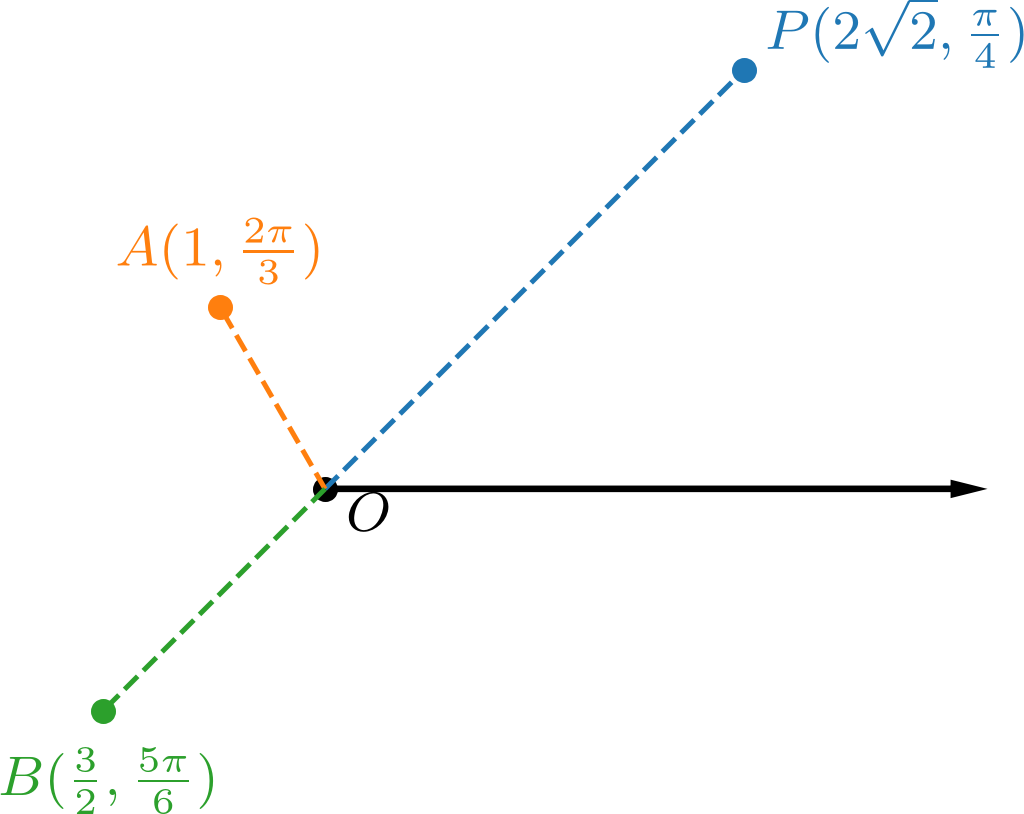
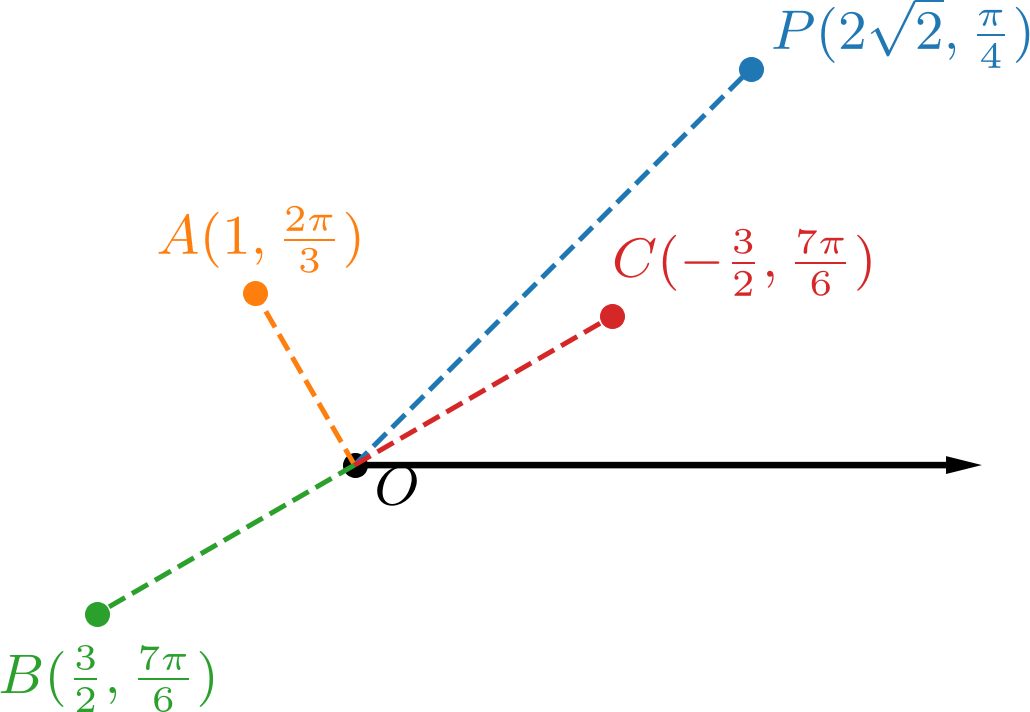
Atualização das notas de GA

diff --git a/docs/geometria_analitica/cap_osc_sec_coordenadas_polares.html b/docs/geometria_analitica/cap_osc_sec_coordenadas_polares.html
@@ -2,8 +2,8 @@
 <head>
 <meta http-equiv="content-type" content="text/html; charset=UTF-8">
 <title>NPK - 3.1 Sistema de coordenadas polares ‣ Capítulo 3 Outros sistemas de coordenadas ‣ Geometria analítica</title>
-<!--Generated on Mon Sep 21 15:35:50 2026 by LaTeXML (version 0.8.8) http://dlmf.nist.gov/LaTeXML/.-->
-<!--Document created on 21 de setembro de 2026.-->
+<!--Generated on Tue Sep 22 09:31:12 2026 by LaTeXML (version 0.8.8) http://dlmf.nist.gov/LaTeXML/.-->
+<!--Document created on 22 de setembro de 2026.-->
 
 <link rel="stylesheet" href="LaTeXML.css" type="text/css">
 <link rel="stylesheet" href="ltx-book.css" type="text/css">
@@ -139,40 +139,41 @@
 <div id="p2" class="ltx_para">
 <p class="ltx_p">Neste sistema, um ponto <math id="p2.m1" class="ltx_Math" alttext="P" display="inline"><mi>P</mi></math> de coordenadas polares <math id="p2.m2" class="ltx_Math" alttext="P=(r,\theta)" display="inline"><mrow><mi>P</mi><mo>=</mo><mrow><mo stretchy="false">(</mo><mi>r</mi><mo>,</mo><mi>θ</mi><mo stretchy="false">)</mo></mrow></mrow></math> é tal que <math id="p2.m3" class="ltx_Math" alttext="|OP|=r" display="inline"><mrow><mrow><mo stretchy="false">|</mo><mrow><mi>O</mi><mo></mo><mi>P</mi></mrow><mo stretchy="false">|</mo></mrow><mo>=</mo><mi>r</mi></mrow></math> (<span class="ltx_text ltx_font_italic">i.e.</span> a distância do polo ao ponto é <math id="p2.m4" class="ltx_Math" alttext="r" display="inline"><mi>r</mi></math>) e <math id="p2.m5" class="ltx_Math" alttext="\theta" display="inline"><mi>θ</mi></math> é o ângulo de <math id="p2.m6" class="ltx_Math" alttext="Ox" display="inline"><mrow><mi>O</mi><mo></mo><mi>x</mi></mrow></math> com <math id="p2.m7" class="ltx_Math" alttext="OP" display="inline"><mrow><mi>O</mi><mo></mo><mi>P</mi></mrow></math>, medido positivamente no sentido anti-horário.</p>
 </div>
+<div id="Thmobs1" class="ltx_theorem ltx_theorem_obs">
+<h6 class="ltx_title ltx_runin ltx_font_bold ltx_title_theorem">Observação 3.1.1.
+<br class="ltx_break">
+</h6>
+<div id="Thmobs1.p1" class="ltx_para">
+<p class="ltx_p">Por convenção, as coordenadas polares <math id="Thmobs1.p1.m1" class="ltx_Math" alttext="(r,\pi+\theta)=(-r,\theta)" display="inline"><mrow><mrow><mo stretchy="false">(</mo><mi>r</mi><mo>,</mo><mrow><mi>π</mi><mo>+</mo><mi>θ</mi></mrow><mo stretchy="false">)</mo></mrow><mo>=</mo><mrow><mo stretchy="false">(</mo><mrow><mo>−</mo><mi>r</mi></mrow><mo>,</mo><mi>θ</mi><mo stretchy="false">)</mo></mrow></mrow></math>, <math id="Thmobs1.p1.m2" class="ltx_Math" alttext="r&gt;0" display="inline"><mrow><mi>r</mi><mo>&gt;</mo><mn>0</mn></mrow></math>.</p>
+</div>
+</div>
 <div id="Thmex1" class="ltx_theorem ltx_theorem_ex">
 <h6 class="ltx_title ltx_runin ltx_font_bold ltx_title_theorem">Exemplo 3.1.1.
 <br class="ltx_break">
 </h6>
 <div id="Thmex1.p1" class="ltx_para">
 <p class="ltx_p">Na Figura <a href="#fig:ex_osc_scp" title="Figura 3.2 ‣ Exemplo 3.1.1. ‣ 3.1 Sistema de coordenadas polares ‣ Capítulo 3 Outros sistemas de coordenadas ‣ Geometria analítica" class="ltx_ref"><span class="ltx_text ltx_ref_tag">3.2</span></a>, temos a representação dos pontos <math id="Thmex1.p1.m1" class="ltx_Math" alttext="{\color[rgb]{0.05859375,0.46484375,0.71875}\definecolor[named]{pgfstrokecolor}%
-{rgb}{0.05859375,0.46484375,0.71875}P=(2\sqrt{2},\frac{\pi}{4})}" display="inline"><mrow><mi mathcolor="#0F77B7">P</mi><mo mathcolor="#0F77B7">=</mo><mrow><mo mathcolor="#0F77B7" stretchy="false">(</mo><mrow><mn mathcolor="#0F77B7">2</mn><mo></mo><msqrt mathcolor="#0F77B7"><mn mathcolor="#0F77B7">2</mn></msqrt></mrow><mo mathcolor="#0F77B7">,</mo><mfrac mathcolor="#0F77B7"><mi mathcolor="#0F77B7">π</mi><mn mathcolor="#0F77B7">4</mn></mfrac><mo mathcolor="#0F77B7" stretchy="false">)</mo></mrow></mrow></math>, <math id="Thmex1.p1.m2" class="ltx_Math" alttext="{\color[rgb]{1,0.4921875,0}\definecolor[named]{pgfstrokecolor}{rgb}{%
-1,0.4921875,0}A=(2,\frac{2\pi}{3})}" display="inline"><mrow><mi mathcolor="#FF7E00">A</mi><mo mathcolor="#FF7E00">=</mo><mrow><mo mathcolor="#FF7E00" stretchy="false">(</mo><mn mathcolor="#FF7E00">2</mn><mo mathcolor="#FF7E00">,</mo><mfrac mathcolor="#FF7E00"><mrow><mn mathcolor="#FF7E00">2</mn><mo></mo><mi mathcolor="#FF7E00">π</mi></mrow><mn mathcolor="#FF7E00">3</mn></mfrac><mo mathcolor="#FF7E00" stretchy="false">)</mo></mrow></mrow></math> e <math id="Thmex1.p1.m3" class="ltx_Math" alttext="{\color[rgb]{0,0.640625,0.10546875}\definecolor[named]{pgfstrokecolor}{rgb}{%
-0,0.640625,0.10546875}B=(\sqrt{2},\frac{5\pi}{4})}" display="inline"><mrow><mi mathcolor="#00A31B">B</mi><mo mathcolor="#00A31B">=</mo><mrow><mo mathcolor="#00A31B" stretchy="false">(</mo><msqrt mathcolor="#00A31B"><mn mathcolor="#00A31B">2</mn></msqrt><mo mathcolor="#00A31B">,</mo><mfrac mathcolor="#00A31B"><mrow><mn mathcolor="#00A31B">5</mn><mo></mo><mi mathcolor="#00A31B">π</mi></mrow><mn mathcolor="#00A31B">4</mn></mfrac><mo mathcolor="#00A31B" stretchy="false">)</mo></mrow></mrow></math> no sistema de coordenadas polares.</p>
+{rgb}{0.05859375,0.46484375,0.71875}P(2\sqrt{2},\frac{\pi}{4})}" display="inline"><mrow><mi mathcolor="#0F77B7">P</mi><mo></mo><mrow><mo mathcolor="#0F77B7" stretchy="false">(</mo><mrow><mn mathcolor="#0F77B7">2</mn><mo></mo><msqrt mathcolor="#0F77B7"><mn mathcolor="#0F77B7">2</mn></msqrt></mrow><mo mathcolor="#0F77B7">,</mo><mfrac mathcolor="#0F77B7"><mi mathcolor="#0F77B7">π</mi><mn mathcolor="#0F77B7">4</mn></mfrac><mo mathcolor="#0F77B7" stretchy="false">)</mo></mrow></mrow></math>, <math id="Thmex1.p1.m2" class="ltx_Math" alttext="{\color[rgb]{1,0.4921875,0}\definecolor[named]{pgfstrokecolor}{rgb}{%
+1,0.4921875,0}A(1,\frac{2\pi}{3})}" display="inline"><mrow><mi mathcolor="#FF7E00">A</mi><mo></mo><mrow><mo mathcolor="#FF7E00" stretchy="false">(</mo><mn mathcolor="#FF7E00">1</mn><mo mathcolor="#FF7E00">,</mo><mfrac mathcolor="#FF7E00"><mrow><mn mathcolor="#FF7E00">2</mn><mo></mo><mi mathcolor="#FF7E00">π</mi></mrow><mn mathcolor="#FF7E00">3</mn></mfrac><mo mathcolor="#FF7E00" stretchy="false">)</mo></mrow></mrow></math>, <math id="Thmex1.p1.m3" class="ltx_Math" alttext="{\color[rgb]{0,0.640625,0.10546875}\definecolor[named]{pgfstrokecolor}{rgb}{%
+0,0.640625,0.10546875}B(\frac{3}{2},\frac{7\pi}{6})}" display="inline"><mrow><mi mathcolor="#00A31B">B</mi><mo></mo><mrow><mo mathcolor="#00A31B" stretchy="false">(</mo><mfrac mathcolor="#00A31B"><mn mathcolor="#00A31B">3</mn><mn mathcolor="#00A31B">2</mn></mfrac><mo mathcolor="#00A31B">,</mo><mfrac mathcolor="#00A31B"><mrow><mn mathcolor="#00A31B">7</mn><mo></mo><mi mathcolor="#00A31B">π</mi></mrow><mn mathcolor="#00A31B">6</mn></mfrac><mo mathcolor="#00A31B" stretchy="false">)</mo></mrow></mrow></math> e <math id="Thmex1.p1.m4" class="ltx_Math" alttext="{\color[rgb]{0.89453125,0.1015625,0.109375}\definecolor[named]{pgfstrokecolor}%
+{rgb}{0.89453125,0.1015625,0.109375}C(-\frac{3}{2},\frac{7\pi}{6})}" display="inline"><mrow><mi mathcolor="#E41A1C">C</mi><mo></mo><mrow><mo mathcolor="#E41A1C" stretchy="false">(</mo><mrow><mo mathcolor="#E41A1C">−</mo><mfrac mathcolor="#E41A1C"><mn mathcolor="#E41A1C">3</mn><mn mathcolor="#E41A1C">2</mn></mfrac></mrow><mo mathcolor="#E41A1C">,</mo><mfrac mathcolor="#E41A1C"><mrow><mn mathcolor="#E41A1C">7</mn><mo></mo><mi mathcolor="#E41A1C">π</mi></mrow><mn mathcolor="#E41A1C">6</mn></mfrac><mo mathcolor="#E41A1C" stretchy="false">)</mo></mrow></mrow></math> no sistema de coordenadas polares.</p>
 </div>
-<figure id="fig:ex_osc_scp" class="ltx_figure"><img src="cap_osc/dados/fig_ex_osc_scp/fig.png" id="Ch3.F2.g1" class="ltx_graphics ltx_centering ltx_img_landscape" width="227" height="181" alt="Refer to caption">
+<figure id="fig:ex_osc_scp" class="ltx_figure"><img src="cap_osc/dados/fig_ex_osc_scp/fig.png" id="Ch3.F2.g1" class="ltx_graphics ltx_centering ltx_img_landscape" width="227" height="157" alt="Refer to caption">
 <figcaption class="ltx_caption ltx_centering"><span class="ltx_tag ltx_tag_figure"><span class="ltx_text" style="font-size:90%;">Figura 3.2</span>: </span><span class="ltx_text" style="font-size:90%;">Exemplo de pontos no sistema de coordenadas polares.</span></figcaption>
 </figure>
-</div>
-<div id="Thmobs1" class="ltx_theorem ltx_theorem_obs">
-<h6 class="ltx_title ltx_runin ltx_font_bold ltx_title_theorem">Observação 3.1.1.
-<br class="ltx_break">
-</h6>
-<div id="Thmobs1.p1" class="ltx_para">
-<p class="ltx_p">Por convenção, as coordenadas polares <math id="Thmobs1.p1.m1" class="ltx_Math" alttext="(r,\pi+\theta)=(-r,\theta)" display="inline"><mrow><mrow><mo stretchy="false">(</mo><mi>r</mi><mo>,</mo><mrow><mi>π</mi><mo>+</mo><mi>θ</mi></mrow><mo stretchy="false">)</mo></mrow><mo>=</mo><mrow><mo stretchy="false">(</mo><mrow><mo>−</mo><mi>r</mi></mrow><mo>,</mo><mi>θ</mi><mo stretchy="false">)</mo></mrow></mrow></math>, <math id="Thmobs1.p1.m2" class="ltx_Math" alttext="r&gt;0" display="inline"><mrow><mi>r</mi><mo>&gt;</mo><mn>0</mn></mrow></math>. Por exemplo, <math id="Thmobs1.p1.m3" class="ltx_Math" alttext="B=(\sqrt{2},\frac{5\pi}{4})=(-\sqrt{2},\frac{\pi}{4})" display="inline"><mrow><mi>B</mi><mo>=</mo><mrow><mo stretchy="false">(</mo><msqrt><mn>2</mn></msqrt><mo>,</mo><mfrac><mrow><mn>5</mn><mo></mo><mi>π</mi></mrow><mn>4</mn></mfrac><mo stretchy="false">)</mo></mrow><mo>=</mo><mrow><mo stretchy="false">(</mo><mrow><mo>−</mo><msqrt><mn>2</mn></msqrt></mrow><mo>,</mo><mfrac><mi>π</mi><mn>4</mn></mfrac><mo stretchy="false">)</mo></mrow></mrow></math>. Consultemos a Figura <a href="#fig:ex_osc_scp" title="Figura 3.2 ‣ Exemplo 3.1.1. ‣ 3.1 Sistema de coordenadas polares ‣ Capítulo 3 Outros sistemas de coordenadas ‣ Geometria analítica" class="ltx_ref"><span class="ltx_text ltx_ref_tag">3.2</span></a>.</p>
-</div>
 </div>
 <section id="SS1" class="ltx_subsection">
 <h2 class="ltx_title ltx_title_subsection">
 <span class="ltx_tag ltx_tag_subsection">3.1.1 </span>Coordenadas cartesianas x polares</h2>
 
 <div id="SS1.p1" class="ltx_para">
-<p class="ltx_p">Aqui, vamos estudar como podemos converter as coordenadas de um ponto <math id="SS1.p1.m1" class="ltx_Math" alttext="P(x_{p},y_{P})" display="inline"><mrow><mi>P</mi><mo></mo><mrow><mo stretchy="false">(</mo><msub><mi>x</mi><mi>p</mi></msub><mo>,</mo><msub><mi>y</mi><mi>P</mi></msub><mo stretchy="false">)</mo></mrow></mrow></math> de coordenadas cartesianas para coordenadas polares <math id="SS1.p1.m2" class="ltx_Math" alttext="P(r,\theta)" display="inline"><mrow><mi>P</mi><mo></mo><mrow><mo stretchy="false">(</mo><mi>r</mi><mo>,</mo><mi>θ</mi><mo stretchy="false">)</mo></mrow></mrow></math> e vice-versa.</p>
+<p class="ltx_p">Aqui, vamos estudar como podemos converter as coordenadas de um ponto <math id="SS1.p1.m1" class="ltx_Math" alttext="P(x_{P},y_{P})" display="inline"><mrow><mi>P</mi><mo></mo><mrow><mo stretchy="false">(</mo><msub><mi>x</mi><mi>P</mi></msub><mo>,</mo><msub><mi>y</mi><mi>P</mi></msub><mo stretchy="false">)</mo></mrow></mrow></math> de coordenadas cartesianas para coordenadas polares <math id="SS1.p1.m2" class="ltx_Math" alttext="P(r,\theta)" display="inline"><mrow><mi>P</mi><mo></mo><mrow><mo stretchy="false">(</mo><mi>r</mi><mo>,</mo><mi>θ</mi><mo stretchy="false">)</mo></mrow></mrow></math> e vice-versa.</p>
 </div>
 <section id="SS1.SSSx1" class="ltx_subsubsection">
 <h3 class="ltx_title ltx_title_subsubsection">Cartesianas para polares</h3>
 
 <div id="SS1.SSSx1.p1" class="ltx_para">
-<p class="ltx_p">Seja um ponto <math id="SS1.SSSx1.p1.m1" class="ltx_Math" alttext="P" display="inline"><mi>P</mi></math> de coordenadas cartesianas <math id="SS1.SSSx1.p1.m2" class="ltx_Math" alttext="P(x_{p},y_{P})" display="inline"><mrow><mi>P</mi><mo></mo><mrow><mo stretchy="false">(</mo><msub><mi>x</mi><mi>p</mi></msub><mo>,</mo><msub><mi>y</mi><mi>P</mi></msub><mo stretchy="false">)</mo></mrow></mrow></math>. Consultemos a Figura <a href="#fig:osc_ccxcp" title="Figura 3.3 ‣ Cartesianas para polares ‣ 3.1.1 Coordenadas cartesianas x polares ‣ 3.1 Sistema de coordenadas polares ‣ Capítulo 3 Outros sistemas de coordenadas ‣ Geometria analítica" class="ltx_ref"><span class="ltx_text ltx_ref_tag">3.3</span></a>. Em coordenadas polares, temos que <math id="SS1.SSSx1.p1.m3" class="ltx_Math" alttext="r=|OP|" display="inline"><mrow><mi>r</mi><mo>=</mo><mrow><mo stretchy="false">|</mo><mrow><mi>O</mi><mo></mo><mi>P</mi></mrow><mo stretchy="false">|</mo></mrow></mrow></math> e <math id="SS1.SSSx1.p1.m4" class="ltx_Math" alttext="\theta" display="inline"><mi>θ</mi></math> é o ângulo de <math id="SS1.SSSx1.p1.m5" class="ltx_Math" alttext="Ox" display="inline"><mrow><mi>O</mi><mo></mo><mi>x</mi></mrow></math> com <math id="SS1.SSSx1.p1.m6" class="ltx_Math" alttext="OP" display="inline"><mrow><mi>O</mi><mo></mo><mi>P</mi></mrow></math>, medido positivamente no sentido anti-horário. Com isso, temos que as coordenadas polares de <math id="SS1.SSSx1.p1.m7" class="ltx_Math" alttext="P" display="inline"><mi>P</mi></math> podem ser escritas em função das coordenadas cartesianas de <math id="SS1.SSSx1.p1.m8" class="ltx_Math" alttext="P" display="inline"><mi>P</mi></math> como</p>
+<p class="ltx_p">Seja um ponto <math id="SS1.SSSx1.p1.m1" class="ltx_Math" alttext="P" display="inline"><mi>P</mi></math> de coordenadas cartesianas <math id="SS1.SSSx1.p1.m2" class="ltx_Math" alttext="P(x_{P},y_{P})" display="inline"><mrow><mi>P</mi><mo></mo><mrow><mo stretchy="false">(</mo><msub><mi>x</mi><mi>P</mi></msub><mo>,</mo><msub><mi>y</mi><mi>P</mi></msub><mo stretchy="false">)</mo></mrow></mrow></math>. Consultemos a Figura <a href="#fig:osc_ccxcp" title="Figura 3.3 ‣ Cartesianas para polares ‣ 3.1.1 Coordenadas cartesianas x polares ‣ 3.1 Sistema de coordenadas polares ‣ Capítulo 3 Outros sistemas de coordenadas ‣ Geometria analítica" class="ltx_ref"><span class="ltx_text ltx_ref_tag">3.3</span></a>. Em coordenadas polares, temos que <math id="SS1.SSSx1.p1.m3" class="ltx_Math" alttext="r=|OP|" display="inline"><mrow><mi>r</mi><mo>=</mo><mrow><mo stretchy="false">|</mo><mrow><mi>O</mi><mo></mo><mi>P</mi></mrow><mo stretchy="false">|</mo></mrow></mrow></math> e <math id="SS1.SSSx1.p1.m4" class="ltx_Math" alttext="\theta" display="inline"><mi>θ</mi></math> é o ângulo de <math id="SS1.SSSx1.p1.m5" class="ltx_Math" alttext="Ox" display="inline"><mrow><mi>O</mi><mo></mo><mi>x</mi></mrow></math> com <math id="SS1.SSSx1.p1.m6" class="ltx_Math" alttext="OP" display="inline"><mrow><mi>O</mi><mo></mo><mi>P</mi></mrow></math>, medido positivamente no sentido anti-horário. Com isso, temos que as coordenadas polares de <math id="SS1.SSSx1.p1.m7" class="ltx_Math" alttext="P" display="inline"><mi>P</mi></math> podem ser escritas em função das coordenadas cartesianas de <math id="SS1.SSSx1.p1.m8" class="ltx_Math" alttext="P" display="inline"><mi>P</mi></math> como</p>
 <table id="Ch4.S4.EGx70" class="ltx_equationgroup ltx_eqn_align ltx_eqn_table">
 
 <tbody id="Ch3.E1"><tr class="ltx_equation ltx_eqn_row ltx_align_baseline">
@@ -838,7 +839,8 @@
 <li id="I2.i3" class="ltx_item" style="list-style-type:none;">
 <span class="ltx_tag ltx_tag_item">c)</span> 
 <div id="I2.i3.p1" class="ltx_para">
-<p class="ltx_p"><math id="I2.i3.p1.m1" class="ltx_Math" alttext="r=\cos(2\theta)" display="inline"><mrow><mi>r</mi><mo>=</mo><mrow><mi>cos</mi><mo></mo><mrow><mo stretchy="false">(</mo><mrow><mn>2</mn><mo></mo><mi>θ</mi></mrow><mo stretchy="false">)</mo></mrow></mrow></mrow></math></p>
+<p class="ltx_p"><math id="I2.i3.p1.m1" class="ltx_Math" alttext="r=\cos(2\theta)" display="inline"><mrow><mi>r</mi><mo>=</mo><mrow><mi>cos</mi><mo></mo><mrow><mo stretchy="false">(</mo><mrow><mn>2</mn><mo></mo><mi>θ</mi></mrow><mo stretchy="false">)</mo></mrow></mrow></mrow></math>
+</p>
 </div>
 </li>
 <li id="I2.i4" class="ltx_item" style="list-style-type:none;">
@@ -1107,7 +1109,7 @@
 <div class="ltx_align_center">
 <a href="cap_osc.html" title="In Geometria analítica" class="ltx_ref" rel="prev"><span class="ltx_text ltx_ref_title"><span class="ltx_tag ltx_tag_ref">3 </span>Outros sistemas de coordenadas</span></a><a href="bib.html" title="In Geometria analítica" class="ltx_ref" rel="bibliography"><span class="ltx_text ltx_ref_title">Referências</span></a><a href="cap_osc_sec_coordenadas_cilindricas.html" title="In Capítulo 3 Outros sistemas de coordenadas ‣ Geometria analítica" class="ltx_ref" rel="next"><span class="ltx_text ltx_ref_title"><span class="ltx_tag ltx_tag_ref">3.2 </span>Sistema de coordenadas cilíndricas</span></a>
 </div>
[2 lines of base64/hex data omitted]
 </div></footer><p><a rel="license" href="http://creativecommons.org/licenses/by-sa/4.0/"><img alt="Licença Creative Commons" style="border-width:0" src="https://i.creativecommons.org/l/by-sa/4.0/80x15.png" /></a><br />Este texto é disponibilizado nos termos da Licença <a rel="license" href="http://creativecommons.org/licenses/by-sa/4.0/deed.pt_BR">Creative Commons Atribuição-CompartilhaIgual 4.0 Internacional</a>. Ícones e elementos gráficos podem estar sujeitos a condições adicionais.</p>
 </div>
 <div class="card mb-1 bg-light" id="rodape">

diff --git a/docs/geometria_analitica/index.html b/docs/geometria_analitica/index.html
@@ -2,8 +2,8 @@
 <head>
 <meta http-equiv="content-type" content="text/html; charset=UTF-8">
 <title>NPK - Geometria analítica ‣ Geometria analítica</title>
-<!--Generated on Mon Sep 21 15:35:50 2026 by LaTeXML (version 0.8.8) http://dlmf.nist.gov/LaTeXML/.-->
-<!--Document created on 21 de setembro de 2026.-->
+<!--Generated on Tue Sep 22 09:31:12 2026 by LaTeXML (version 0.8.8) http://dlmf.nist.gov/LaTeXML/.-->
+<!--Document created on 22 de setembro de 2026.-->
 
 <link rel="stylesheet" href="LaTeXML.css" type="text/css">
 <link rel="stylesheet" href="ltx-book.css" type="text/css">
@@ -127,7 +127,7 @@
 <div id="p1" class="ltx_para">
 <p class="ltx_p ltx_align_left">Pedro H. A. Konzen</p>
 <p class="ltx_p ltx_align_left"><span class="ltx_text ltx_font_italic" style="font-size:90%;">Notas de aula
-<br class="ltx_break">21 de setembro de 2026</span></p>
+<br class="ltx_break">22 de setembro de 2026</span></p>
 </div>
 </div>
 <nav class="ltx_TOC ltx_list_toc ltx_toc_toc"><h6 class="ltx_title ltx_title_contents"><i class="fa-solid fa-bars-staggered text-primary"></i> Conteúdo</h6>
@@ -286,7 +286,7 @@
 <div class="ltx_align_center">
 <a href="prefacio.html" title="In Geometria analítica" class="ltx_ref" rel="prev"><span class="ltx_text ltx_ref_title">Prefácio</span></a><a href="bib.html" title="In Geometria analítica" class="ltx_ref" rel="bibliography"><span class="ltx_text ltx_ref_title">Referências</span></a><a href="cap_intro.html" title="In Geometria analítica" class="ltx_ref" rel="next"><span class="ltx_text ltx_ref_title"><span class="ltx_tag ltx_tag_ref">1 </span>Introdução</span></a>
 </div>
[2 lines of base64/hex data omitted]
 </div></footer><p><a rel="license" href="http://creativecommons.org/licenses/by-sa/4.0/"><img alt="Licença Creative Commons" style="border-width:0" src="https://i.creativecommons.org/l/by-sa/4.0/80x15.png" /></a><br />Este texto é disponibilizado nos termos da Licença <a rel="license" href="http://creativecommons.org/licenses/by-sa/4.0/deed.pt_BR">Creative Commons Atribuição-CompartilhaIgual 4.0 Internacional</a>. Ícones e elementos gráficos podem estar sujeitos a condições adicionais.</p>
 </div>
 <div class="card mb-1 bg-light" id="rodape">

diff --git a/docs/geometria_analitica/cap_osc_sec_coordenadas_cilindricas.html b/docs/geometria_analitica/cap_osc_sec_coordenadas_cilindricas.html
@@ -2,8 +2,8 @@
 <head>
 <meta http-equiv="content-type" content="text/html; charset=UTF-8">
 <title>NPK - 3.2 Sistema de coordenadas cilíndricas ‣ Capítulo 3 Outros sistemas de coordenadas ‣ Geometria analítica</title>
-<!--Generated on Mon Sep 21 15:35:50 2026 by LaTeXML (version 0.8.8) http://dlmf.nist.gov/LaTeXML/.-->
-<!--Document created on 21 de setembro de 2026.-->
+<!--Generated on Tue Sep 22 09:31:12 2026 by LaTeXML (version 0.8.8) http://dlmf.nist.gov/LaTeXML/.-->
+<!--Document created on 22 de setembro de 2026.-->
 
 <link rel="stylesheet" href="LaTeXML.css" type="text/css">
 <link rel="stylesheet" href="ltx-book.css" type="text/css">
@@ -180,7 +180,7 @@
 <div class="ltx_align_center">
 <a href="cap_osc_sec_coordenadas_polares.html" title="In Capítulo 3 Outros sistemas de coordenadas ‣ Geometria analítica" class="ltx_ref" rel="prev"><span class="ltx_text ltx_ref_title"><span class="ltx_tag ltx_tag_ref">3.1 </span>Sistema de coordenadas polares</span></a><a href="bib.html" title="In Geometria analítica" class="ltx_ref" rel="bibliography"><span class="ltx_text ltx_ref_title">Referências</span></a><a href="cap_osc_sec_coordenadas_esfericas.html" title="In Capítulo 3 Outros sistemas de coordenadas ‣ Geometria analítica" class="ltx_ref" rel="next"><span class="ltx_text ltx_ref_title"><span class="ltx_tag ltx_tag_ref">3.3 </span>Sistema de coordenadas esféricas</span></a>
 </div>
[2 lines of base64/hex data omitted]
 </div></footer><p><a rel="license" href="http://creativecommons.org/licenses/by-sa/4.0/"><img alt="Licença Creative Commons" style="border-width:0" src="https://i.creativecommons.org/l/by-sa/4.0/80x15.png" /></a><br />Este texto é disponibilizado nos termos da Licença <a rel="license" href="http://creativecommons.org/licenses/by-sa/4.0/deed.pt_BR">Creative Commons Atribuição-CompartilhaIgual 4.0 Internacional</a>. Ícones e elementos gráficos podem estar sujeitos a condições adicionais.</p>
 </div>
 <div class="card mb-1 bg-light" id="rodape">

diff --git a/docs/geometria_analitica/cap_conicas_e_quadricas.html b/docs/geometria_analitica/cap_conicas_e_quadricas.html
@@ -2,8 +2,8 @@
 <head>
 <meta http-equiv="content-type" content="text/html; charset=UTF-8">
 <title>NPK - Capítulo 4 Cônicas e quádricas ‣ Geometria analítica</title>
-<!--Generated on Mon Sep 21 15:35:50 2026 by LaTeXML (version 0.8.8) http://dlmf.nist.gov/LaTeXML/.-->
-<!--Document created on 21 de setembro de 2026.-->
+<!--Generated on Tue Sep 22 09:31:12 2026 by LaTeXML (version 0.8.8) http://dlmf.nist.gov/LaTeXML/.-->
+<!--Document created on 22 de setembro de 2026.-->
 
 <link rel="stylesheet" href="LaTeXML.css" type="text/css">
 <link rel="stylesheet" href="ltx-book.css" type="text/css">
@@ -201,7 +201,7 @@ ax^{2}+by^{2}+cz^{2}+dxy+exz+fyz+gx+hy+iz+j=0," display="inline"><mrow><mrow><mr
 <div class="ltx_align_center">
 <a href="cap_osc_sec_coordenadas_esfericas.html" title="In Capítulo 3 Outros sistemas de coordenadas ‣ Geometria analítica" class="ltx_ref" rel="prev"><span class="ltx_text ltx_ref_title"><span class="ltx_tag ltx_tag_ref">3.3 </span>Sistema de coordenadas esféricas</span></a><a href="bib.html" title="In Geometria analítica" class="ltx_ref" rel="bibliography"><span class="ltx_text ltx_ref_title">Referências</span></a><a href="cap_conicas_e_quadricas_sec_elipse.html" title="In Capítulo 4 Cônicas e quádricas ‣ Geometria analítica" class="ltx_ref" rel="next"><span class="ltx_text ltx_ref_title"><span class="ltx_tag ltx_tag_ref">4.1 </span>Elipse</span></a>
 </div>
[2 lines of base64/hex data omitted]
 </div></footer><p><a rel="license" href="http://creativecommons.org/licenses/by-sa/4.0/"><img alt="Licença Creative Commons" style="border-width:0" src="https://i.creativecommons.org/l/by-sa/4.0/80x15.png" /></a><br />Este texto é disponibilizado nos termos da Licença <a rel="license" href="http://creativecommons.org/licenses/by-sa/4.0/deed.pt_BR">Creative Commons Atribuição-CompartilhaIgual 4.0 Internacional</a>. Ícones e elementos gráficos podem estar sujeitos a condições adicionais.</p>
 </div>
 <div class="card mb-1 bg-light" id="rodape">

diff --git a/docs/geometria_analitica/cap_conicas_e_quadricas_sec_hiperbole.html b/docs/geometria_analitica/cap_conicas_e_quadricas_sec_hiperbole.html
@@ -2,8 +2,8 @@
 <head>
 <meta http-equiv="content-type" content="text/html; charset=UTF-8">
 <title>NPK - 4.2 Hipérbole ‣ Capítulo 4 Cônicas e quádricas ‣ Geometria analítica</title>
-<!--Generated on Mon Sep 21 15:35:50 2026 by LaTeXML (version 0.8.8) http://dlmf.nist.gov/LaTeXML/.-->
-<!--Document created on 21 de setembro de 2026.-->
+<!--Generated on Tue Sep 22 09:31:12 2026 by LaTeXML (version 0.8.8) http://dlmf.nist.gov/LaTeXML/.-->
+<!--Document created on 22 de setembro de 2026.-->
 
 <link rel="stylesheet" href="LaTeXML.css" type="text/css">
 <link rel="stylesheet" href="ltx-book.css" type="text/css">
@@ -709,7 +709,7 @@ b^{2}}." display="block"><mrow><mrow><msup><mi mathcolor="#0000FF">c</mi><mn mat
 <div class="ltx_align_center">
 <a href="cap_conicas_e_quadricas_sec_elipse.html" title="In Capítulo 4 Cônicas e quádricas ‣ Geometria analítica" class="ltx_ref" rel="prev"><span class="ltx_text ltx_ref_title"><span class="ltx_tag ltx_tag_ref">4.1 </span>Elipse</span></a><a href="bib.html" title="In Geometria analítica" class="ltx_ref" rel="bibliography"><span class="ltx_text ltx_ref_title">Referências</span></a><a href="cap_conicas_e_quadricas_sec_parabola.html" title="In Capítulo 4 Cônicas e quádricas ‣ Geometria analítica" class="ltx_ref" rel="next"><span class="ltx_text ltx_ref_title"><span class="ltx_tag ltx_tag_ref">4.3 </span>Parábola</span></a>
 </div>
[2 lines of base64/hex data omitted]
 </div></footer><p><a rel="license" href="http://creativecommons.org/licenses/by-sa/4.0/"><img alt="Licença Creative Commons" style="border-width:0" src="https://i.creativecommons.org/l/by-sa/4.0/80x15.png" /></a><br />Este texto é disponibilizado nos termos da Licença <a rel="license" href="http://creativecommons.org/licenses/by-sa/4.0/deed.pt_BR">Creative Commons Atribuição-CompartilhaIgual 4.0 Internacional</a>. Ícones e elementos gráficos podem estar sujeitos a condições adicionais.</p>
 </div>
 <div class="card mb-1 bg-light" id="rodape">

diff --git a/docs/geometria_analitica/cap_osc_sec_coordenadas_esfericas.html b/docs/geometria_analitica/cap_osc_sec_coordenadas_esfericas.html
@@ -2,8 +2,8 @@
 <head>
 <meta http-equiv="content-type" content="text/html; charset=UTF-8">
 <title>NPK - 3.3 Sistema de coordenadas esféricas ‣ Capítulo 3 Outros sistemas de coordenadas ‣ Geometria analítica</title>
-<!--Generated on Mon Sep 21 15:35:50 2026 by LaTeXML (version 0.8.8) http://dlmf.nist.gov/LaTeXML/.-->
-<!--Document created on 21 de setembro de 2026.-->
+<!--Generated on Tue Sep 22 09:31:12 2026 by LaTeXML (version 0.8.8) http://dlmf.nist.gov/LaTeXML/.-->
+<!--Document created on 22 de setembro de 2026.-->
 
 <link rel="stylesheet" href="LaTeXML.css" type="text/css">
 <link rel="stylesheet" href="ltx-book.css" type="text/css">
@@ -180,7 +180,7 @@
 <div class="ltx_align_center">
 <a href="cap_osc_sec_coordenadas_cilindricas.html" title="In Capítulo 3 Outros sistemas de coordenadas ‣ Geometria analítica" class="ltx_ref" rel="prev"><span class="ltx_text ltx_ref_title"><span class="ltx_tag ltx_tag_ref">3.2 </span>Sistema de coordenadas cilíndricas</span></a><a href="bib.html" title="In Geometria analítica" class="ltx_ref" rel="bibliography"><span class="ltx_text ltx_ref_title">Referências</span></a><a href="cap_conicas_e_quadricas.html" title="In Geometria analítica" class="ltx_ref" rel="next"><span class="ltx_text ltx_ref_title"><span class="ltx_tag ltx_tag_ref">4 </span>Cônicas e quádricas</span></a>
 </div>
[2 lines of base64/hex data omitted]
 </div></footer><p><a rel="license" href="http://creativecommons.org/licenses/by-sa/4.0/"><img alt="Licença Creative Commons" style="border-width:0" src="https://i.creativecommons.org/l/by-sa/4.0/80x15.png" /></a><br />Este texto é disponibilizado nos termos da Licença <a rel="license" href="http://creativecommons.org/licenses/by-sa/4.0/deed.pt_BR">Creative Commons Atribuição-CompartilhaIgual 4.0 Internacional</a>. Ícones e elementos gráficos podem estar sujeitos a condições adicionais.</p>
 </div>
 <div class="card mb-1 bg-light" id="rodape">

diff --git a/docs/geometria_analitica/cap_reta_e_plano_sec_eqsreta.html b/docs/geometria_analitica/cap_reta_e_plano_sec_eqsreta.html
@@ -2,8 +2,8 @@
 <head>
 <meta http-equiv="content-type" content="text/html; charset=UTF-8">
 <title>NPK - 2.1 Equações da reta ‣ Capítulo 2 Retas e planos ‣ Geometria analítica</title>
-<!--Generated on Mon Sep 21 15:35:50 2026 by LaTeXML (version 0.8.8) http://dlmf.nist.gov/LaTeXML/.-->
-<!--Document created on 21 de setembro de 2026.-->
+<!--Generated on Tue Sep 22 09:31:12 2026 by LaTeXML (version 0.8.8) http://dlmf.nist.gov/LaTeXML/.-->
+<!--Document created on 22 de setembro de 2026.-->
 
 <link rel="stylesheet" href="LaTeXML.css" type="text/css">
 <link rel="stylesheet" href="ltx-book.css" type="text/css">
@@ -1001,7 +1001,7 @@ d(P,r)=\frac{\|\overrightarrow{AP}\times\vec{v}\|}{\|\vec{v}\|}," display="inlin
 <div class="ltx_align_center">
 <a href="cap_reta_e_plano.html" title="In Geometria analítica" class="ltx_ref" rel="prev"><span class="ltx_text ltx_ref_title"><span class="ltx_tag ltx_tag_ref">2 </span>Retas e planos</span></a><a href="bib.html" title="In Geometria analítica" class="ltx_ref" rel="bibliography"><span class="ltx_text ltx_ref_title">Referências</span></a><a href="cap_reta_e_plano_sec_eqsplano.html" title="In Capítulo 2 Retas e planos ‣ Geometria analítica" class="ltx_ref" rel="next"><span class="ltx_text ltx_ref_title"><span class="ltx_tag ltx_tag_ref">2.2 </span>Equações do plano</span></a>
 </div>
[2 lines of base64/hex data omitted]
 </div></footer><p><a rel="license" href="http://creativecommons.org/licenses/by-sa/4.0/"><img alt="Licença Creative Commons" style="border-width:0" src="https://i.creativecommons.org/l/by-sa/4.0/80x15.png" /></a><br />Este texto é disponibilizado nos termos da Licença <a rel="license" href="http://creativecommons.org/licenses/by-sa/4.0/deed.pt_BR">Creative Commons Atribuição-CompartilhaIgual 4.0 Internacional</a>. Ícones e elementos gráficos podem estar sujeitos a condições adicionais.</p>
 </div>
 <div class="card mb-1 bg-light" id="rodape">

diff --git a/docs/geometria_analitica/cap_reta_e_plano_sec_eqsplano.html b/docs/geometria_analitica/cap_reta_e_plano_sec_eqsplano.html
@@ -2,8 +2,8 @@
 <head>
 <meta http-equiv="content-type" content="text/html; charset=UTF-8">
 <title>NPK - 2.2 Equações do plano ‣ Capítulo 2 Retas e planos ‣ Geometria analítica</title>
-<!--Generated on Mon Sep 21 15:35:50 2026 by LaTeXML (version 0.8.8) http://dlmf.nist.gov/LaTeXML/.-->
-<!--Document created on 21 de setembro de 2026.-->
+<!--Generated on Tue Sep 22 09:31:12 2026 by LaTeXML (version 0.8.8) http://dlmf.nist.gov/LaTeXML/.-->
+<!--Document created on 22 de setembro de 2026.-->
 
 <link rel="stylesheet" href="LaTeXML.css" type="text/css">
 <link rel="stylesheet" href="ltx-book.css" type="text/css">
@@ -1028,7 +1028,7 @@ pgfstrokecolor}{rgb}{0.05859375,0.46484375,0.71875}a}x+{\color[rgb]{%
 <div class="ltx_align_center">
 <a href="cap_reta_e_plano_sec_eqsreta.html" title="In Capítulo 2 Retas e planos ‣ Geometria analítica" class="ltx_ref" rel="prev"><span class="ltx_text ltx_ref_title"><span class="ltx_tag ltx_tag_ref">2.1 </span>Equações da reta</span></a><a href="bib.html" title="In Geometria analítica" class="ltx_ref" rel="bibliography"><span class="ltx_text ltx_ref_title">Referências</span></a><a href="cap_osc.html" title="In Geometria analítica" class="ltx_ref" rel="next"><span class="ltx_text ltx_ref_title"><span class="ltx_tag ltx_tag_ref">3 </span>Outros sistemas de coordenadas</span></a>
 </div>
[2 lines of base64/hex data omitted]
 </div></footer><p><a rel="license" href="http://creativecommons.org/licenses/by-sa/4.0/"><img alt="Licença Creative Commons" style="border-width:0" src="https://i.creativecommons.org/l/by-sa/4.0/80x15.png" /></a><br />Este texto é disponibilizado nos termos da Licença <a rel="license" href="http://creativecommons.org/licenses/by-sa/4.0/deed.pt_BR">Creative Commons Atribuição-CompartilhaIgual 4.0 Internacional</a>. Ícones e elementos gráficos podem estar sujeitos a condições adicionais.</p>
 </div>
 <div class="card mb-1 bg-light" id="rodape">

diff --git a/docs/geometria_analitica/cap_conicas_e_quadricas_sec_parabola.html b/docs/geometria_analitica/cap_conicas_e_quadricas_sec_parabola.html
@@ -2,8 +2,8 @@
 <head>
 <meta http-equiv="content-type" content="text/html; charset=UTF-8">
 <title>NPK - 4.3 Parábola ‣ Capítulo 4 Cônicas e quádricas ‣ Geometria analítica</title>
-<!--Generated on Mon Sep 21 15:35:50 2026 by LaTeXML (version 0.8.8) http://dlmf.nist.gov/LaTeXML/.-->
-<!--Document created on 21 de setembro de 2026.-->
+<!--Generated on Tue Sep 22 09:31:12 2026 by LaTeXML (version 0.8.8) http://dlmf.nist.gov/LaTeXML/.-->
+<!--Document created on 22 de setembro de 2026.-->
 
 <link rel="stylesheet" href="LaTeXML.css" type="text/css">
 <link rel="stylesheet" href="ltx-book.css" type="text/css">
@@ -515,7 +515,7 @@
 <div class="ltx_align_center">
 <a href="cap_conicas_e_quadricas_sec_hiperbole.html" title="In Capítulo 4 Cônicas e quádricas ‣ Geometria analítica" class="ltx_ref" rel="prev"><span class="ltx_text ltx_ref_title"><span class="ltx_tag ltx_tag_ref">4.2 </span>Hipérbole</span></a><a href="bib.html" title="In Geometria analítica" class="ltx_ref" rel="bibliography"><span class="ltx_text ltx_ref_title">Referências</span></a><a href="cap_conicas_e_quadricas_sec_superquad.html" title="In Capítulo 4 Cônicas e quádricas ‣ Geometria analítica" class="ltx_ref" rel="next"><span class="ltx_text ltx_ref_title"><span class="ltx_tag ltx_tag_ref">4.4 </span>Superfícies quádricas</span></a>
 </div>
[2 lines of base64/hex data omitted]
 </div></footer><p><a rel="license" href="http://creativecommons.org/licenses/by-sa/4.0/"><img alt="Licença Creative Commons" style="border-width:0" src="https://i.creativecommons.org/l/by-sa/4.0/80x15.png" /></a><br />Este texto é disponibilizado nos termos da Licença <a rel="license" href="http://creativecommons.org/licenses/by-sa/4.0/deed.pt_BR">Creative Commons Atribuição-CompartilhaIgual 4.0 Internacional</a>. Ícones e elementos gráficos podem estar sujeitos a condições adicionais.</p>
 </div>
 <div class="card mb-1 bg-light" id="rodape">

diff --git a/docs/geometria_analitica/cap_osc.html b/docs/geometria_analitica/cap_osc.html
@@ -2,8 +2,8 @@
 <head>
 <meta http-equiv="content-type" content="text/html; charset=UTF-8">
 <title>NPK - Capítulo 3 Outros sistemas de coordenadas ‣ Geometria analítica</title>
-<!--Generated on Mon Sep 21 15:35:50 2026 by LaTeXML (version 0.8.8) http://dlmf.nist.gov/LaTeXML/.-->
-<!--Document created on 21 de setembro de 2026.-->
+<!--Generated on Tue Sep 22 09:31:12 2026 by LaTeXML (version 0.8.8) http://dlmf.nist.gov/LaTeXML/.-->
+<!--Document created on 22 de setembro de 2026.-->
 
 <link rel="stylesheet" href="LaTeXML.css" type="text/css">
 <link rel="stylesheet" href="ltx-book.css" type="text/css">
@@ -177,7 +177,7 @@
 <div class="ltx_align_center">
 <a href="cap_reta_e_plano_sec_eqsplano.html" title="In Capítulo 2 Retas e planos ‣ Geometria analítica" class="ltx_ref" rel="prev"><span class="ltx_text ltx_ref_title"><span class="ltx_tag ltx_tag_ref">2.2 </span>Equações do plano</span></a><a href="bib.html" title="In Geometria analítica" class="ltx_ref" rel="bibliography"><span class="ltx_text ltx_ref_title">Referências</span></a><a href="cap_osc_sec_coordenadas_polares.html" title="In Capítulo 3 Outros sistemas de coordenadas ‣ Geometria analítica" class="ltx_ref" rel="next"><span class="ltx_text ltx_ref_title"><span class="ltx_tag ltx_tag_ref">3.1 </span>Sistema de coordenadas polares</span></a>
 </div>
[2 lines of base64/hex data omitted]
 </div></footer><p><a rel="license" href="http://creativecommons.org/licenses/by-sa/4.0/"><img alt="Licença Creative Commons" style="border-width:0" src="https://i.creativecommons.org/l/by-sa/4.0/80x15.png" /></a><br />Este texto é disponibilizado nos termos da Licença <a rel="license" href="http://creativecommons.org/licenses/by-sa/4.0/deed.pt_BR">Creative Commons Atribuição-CompartilhaIgual 4.0 Internacional</a>. Ícones e elementos gráficos podem estar sujeitos a condições adicionais.</p>
 </div>
 <div class="card mb-1 bg-light" id="rodape">

diff --git a/docs/geometria_analitica/cap_intro_sec_scoord.html b/docs/geometria_analitica/cap_intro_sec_scoord.html
@@ -2,8 +2,8 @@
 <head>
 <meta http-equiv="content-type" content="text/html; charset=UTF-8">
 <title>NPK - 1.1 Sistema de coordenadas no espaço ‣ Capítulo 1 Introdução ‣ Geometria analítica</title>
-<!--Generated on Mon Sep 21 15:35:50 2026 by LaTeXML (version 0.8.8) http://dlmf.nist.gov/LaTeXML/.-->
-<!--Document created on 21 de setembro de 2026.-->
+<!--Generated on Tue Sep 22 09:31:12 2026 by LaTeXML (version 0.8.8) http://dlmf.nist.gov/LaTeXML/.-->
+<!--Document created on 22 de setembro de 2026.-->
 
 <link rel="stylesheet" href="LaTeXML.css" type="text/css">
 <link rel="stylesheet" href="ltx-book.css" type="text/css">
@@ -1094,7 +1094,7 @@ M=\left(\frac{x_{A}+x_{B}}{2},\frac{y_{A}+y_{B}}{2},\frac{z_{A}+z_{B}}{2}%
 <div class="ltx_align_center">
 <a href="cap_intro.html" title="In Geometria analítica" class="ltx_ref" rel="prev"><span class="ltx_text ltx_ref_title"><span class="ltx_tag ltx_tag_ref">1 </span>Introdução</span></a><a href="bib.html" title="In Geometria analítica" class="ltx_ref" rel="bibliography"><span class="ltx_text ltx_ref_title">Referências</span></a><a href="cap_reta_e_plano.html" title="In Geometria analítica" class="ltx_ref" rel="next"><span class="ltx_text ltx_ref_title"><span class="ltx_tag ltx_tag_ref">2 </span>Retas e planos</span></a>
 </div>
[2 lines of base64/hex data omitted]
 </div></footer><p><a rel="license" href="http://creativecommons.org/licenses/by-sa/4.0/"><img alt="Licença Creative Commons" style="border-width:0" src="https://i.creativecommons.org/l/by-sa/4.0/80x15.png" /></a><br />Este texto é disponibilizado nos termos da Licença <a rel="license" href="http://creativecommons.org/licenses/by-sa/4.0/deed.pt_BR">Creative Commons Atribuição-CompartilhaIgual 4.0 Internacional</a>. Ícones e elementos gráficos podem estar sujeitos a condições adicionais.</p>
 </div>
 <div class="card mb-1 bg-light" id="rodape">

diff --git a/docs/geometria_analitica/cap_reta_e_plano.html b/docs/geometria_analitica/cap_reta_e_plano.html
@@ -2,8 +2,8 @@
 <head>
 <meta http-equiv="content-type" content="text/html; charset=UTF-8">
 <title>NPK - Capítulo 2 Retas e planos ‣ Geometria analítica</title>
-<!--Generated on Mon Sep 21 15:35:50 2026 by LaTeXML (version 0.8.8) http://dlmf.nist.gov/LaTeXML/.-->
-<!--Document created on 21 de setembro de 2026.-->
+<!--Generated on Tue Sep 22 09:31:12 2026 by LaTeXML (version 0.8.8) http://dlmf.nist.gov/LaTeXML/.-->
+<!--Document created on 22 de setembro de 2026.-->
 
 <link rel="stylesheet" href="LaTeXML.css" type="text/css">
 <link rel="stylesheet" href="ltx-book.css" type="text/css">
@@ -175,7 +175,7 @@
 <div class="ltx_align_center">
 <a href="cap_intro_sec_scoord.html" title="In Capítulo 1 Introdução ‣ Geometria analítica" class="ltx_ref" rel="prev"><span class="ltx_text ltx_ref_title"><span class="ltx_tag ltx_tag_ref">1.1 </span>Sistema de coordenadas no espaço</span></a><a href="bib.html" title="In Geometria analítica" class="ltx_ref" rel="bibliography"><span class="ltx_text ltx_ref_title">Referências</span></a><a href="cap_reta_e_plano_sec_eqsreta.html" title="In Capítulo 2 Retas e planos ‣ Geometria analítica" class="ltx_ref" rel="next"><span class="ltx_text ltx_ref_title"><span class="ltx_tag ltx_tag_ref">2.1 </span>Equações da reta</span></a>
 </div>
[2 lines of base64/hex data omitted]
 </div></footer><p><a rel="license" href="http://creativecommons.org/licenses/by-sa/4.0/"><img alt="Licença Creative Commons" style="border-width:0" src="https://i.creativecommons.org/l/by-sa/4.0/80x15.png" /></a><br />Este texto é disponibilizado nos termos da Licença <a rel="license" href="http://creativecommons.org/licenses/by-sa/4.0/deed.pt_BR">Creative Commons Atribuição-CompartilhaIgual 4.0 Internacional</a>. Ícones e elementos gráficos podem estar sujeitos a condições adicionais.</p>
 </div>
 <div class="card mb-1 bg-light" id="rodape">
